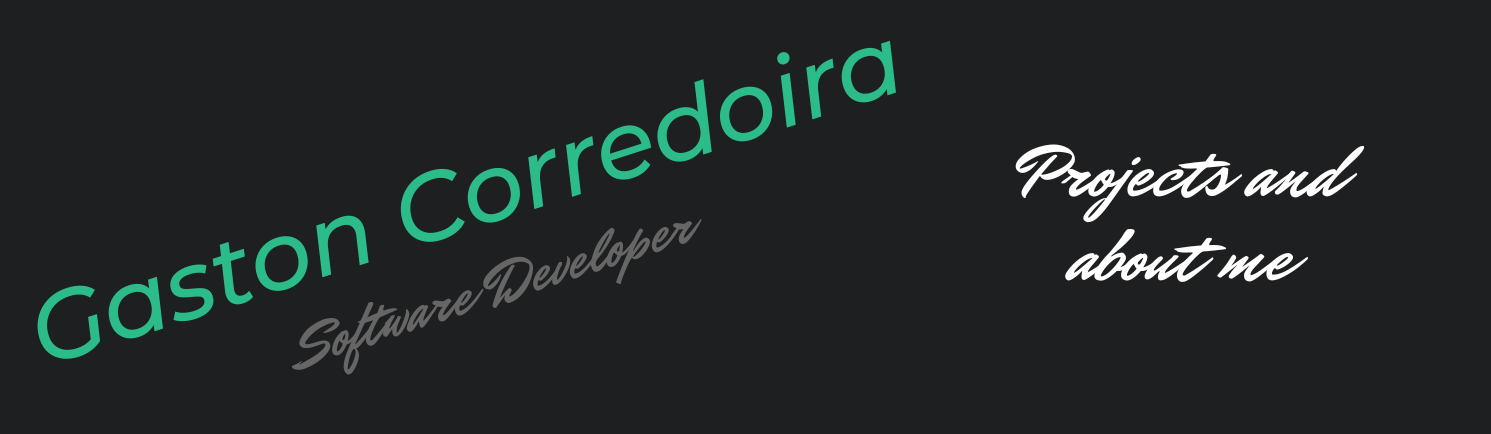
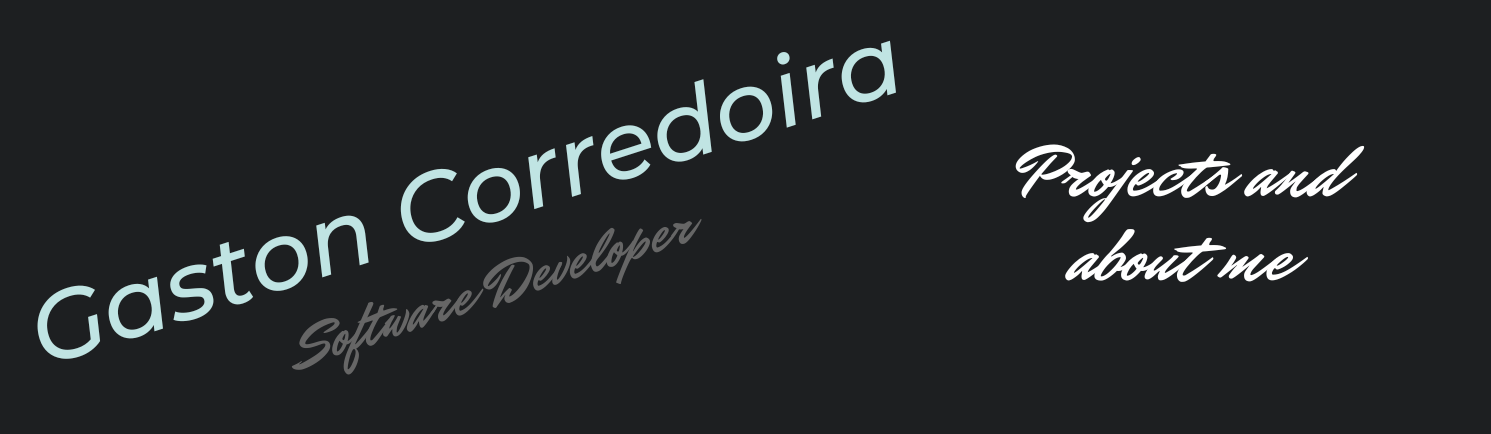
Design changes

Changed region(s): [[0.0, 0.0899, 0.617, 0.8387]]

diff --git a/README.md b/README.md
@@ -6,15 +6,15 @@ My name is Gaston Corredoira and I'm a Web Developer. I'm from Argentina and I a
 [![LinkedIn][3.2]][2].
 
 ## 🔧 Technologies & Tools
-![](https://img.shields.io/badge/OS-Windows-informational?style=flat&logo=linux&logoColor=white&color=2bbc8a)
-![](https://img.shields.io/badge/Editor-Visual_Studio_Code-informational?style=flat&logo=intellij-idea&logoColor=white&color=2bbc8a)
-![](https://img.shields.io/badge/Code-HTML5-informational?style=flat&logo=python&logoColor=white&color=2bbc8a)
-![](https://img.shields.io/badge/Code-CSS3-informational?style=flat&logo=javascript&logoColor=white&color=2bbc8a)
-![](https://img.shields.io/badge/Code-JavaScript-informational?style=flat&logo=javascript&logoColor=white&color=2bbc8a)
-![](https://img.shields.io/badge/Code-PHP-informational?style=flat&logo=javascript&logoColor=white&color=2bbc8a)
-![](https://img.shields.io/badge/Code-Smarty-informational?style=flat&logo=javascript&logoColor=white&color=2bbc8a)
-![](https://img.shields.io/badge/Code-MySQL-informational?style=flat&logo=javascript&logoColor=white&color=2bbc8a)
-![](https://img.shields.io/badge/Tools-GitHub-informational?style=flat&logo=postgresql&logoColor=white&color=2bbc8a)
+![](https://img.shields.io/badge/OS-Windows-informational?style=flat&logo=linux&logoColor=white&color=C0E4E3)
+![](https://img.shields.io/badge/Editor-Visual_Studio_Code-informational?style=flat&logo=intellij-idea&logoColor=white&color=C0E4E3)
+![](https://img.shields.io/badge/Code-HTML5-informational?style=flat&logo=python&logoColor=white&color=C0E4E3)
+![](https://img.shields.io/badge/Code-CSS3-informational?style=flat&logo=javascript&logoColor=white&color=C0E4E3)
+![](https://img.shields.io/badge/Code-JavaScript-informational?style=flat&logo=javascript&logoColor=white&color=C0E4E3)
+![](https://img.shields.io/badge/Code-PHP-informational?style=flat&logo=javascript&logoColor=white&color=C0E4E3)
+![](https://img.shields.io/badge/Code-Smarty-informational?style=flat&logo=javascript&logoColor=white&color=C0E4E3)
+![](https://img.shields.io/badge/Code-MySQL-informational?style=flat&logo=javascript&logoColor=white&color=C0E4E3)
+![](https://img.shields.io/badge/Tools-GitHub-informational?style=flat&logo=postgresql&logoColor=white&color=C0E4E3)
 
 ## &#x270d; Projects
 
